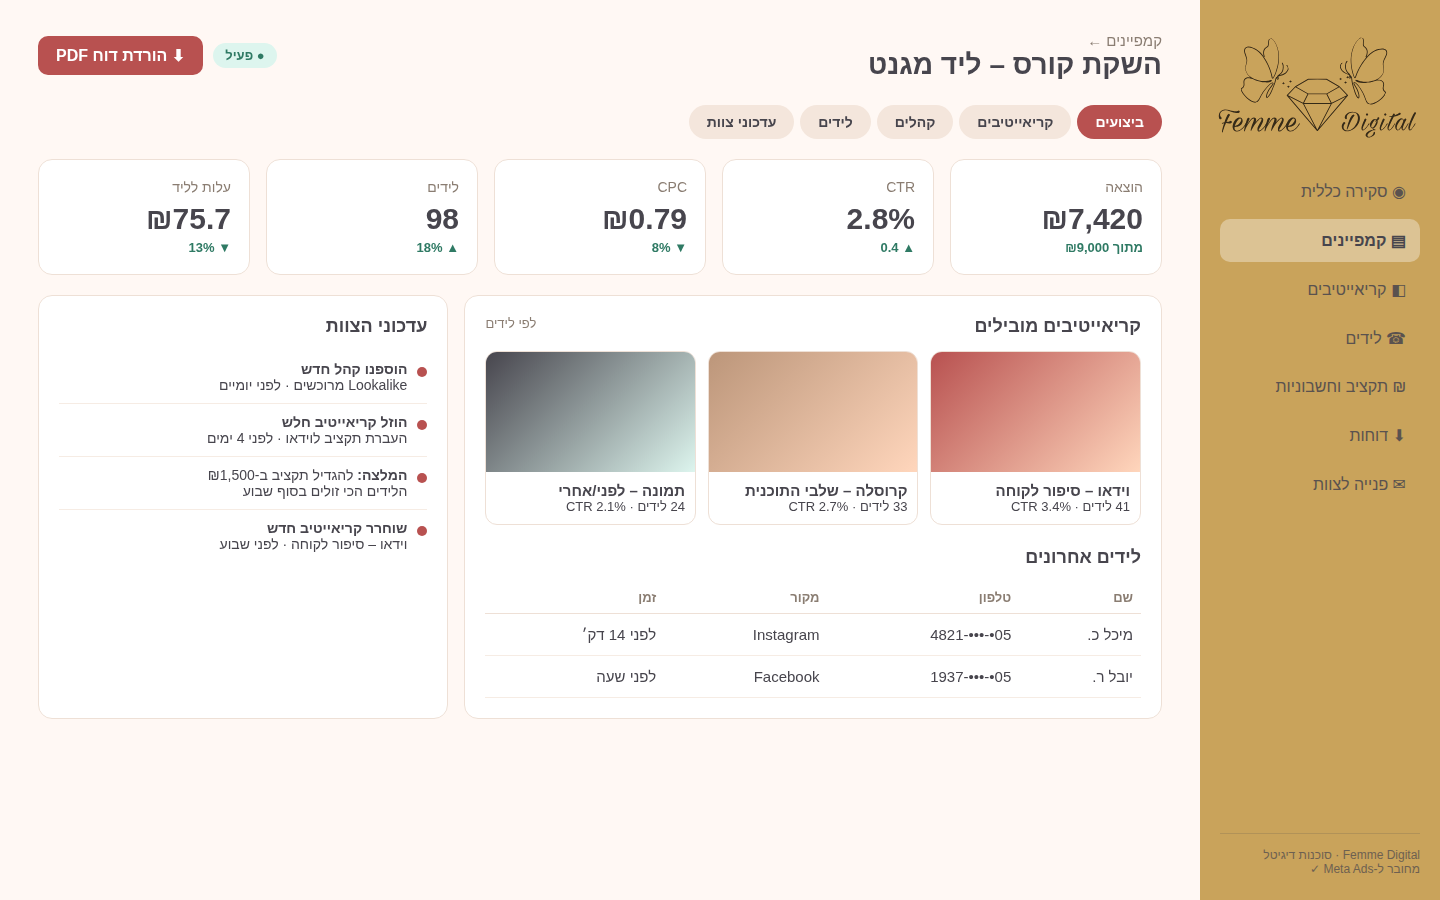
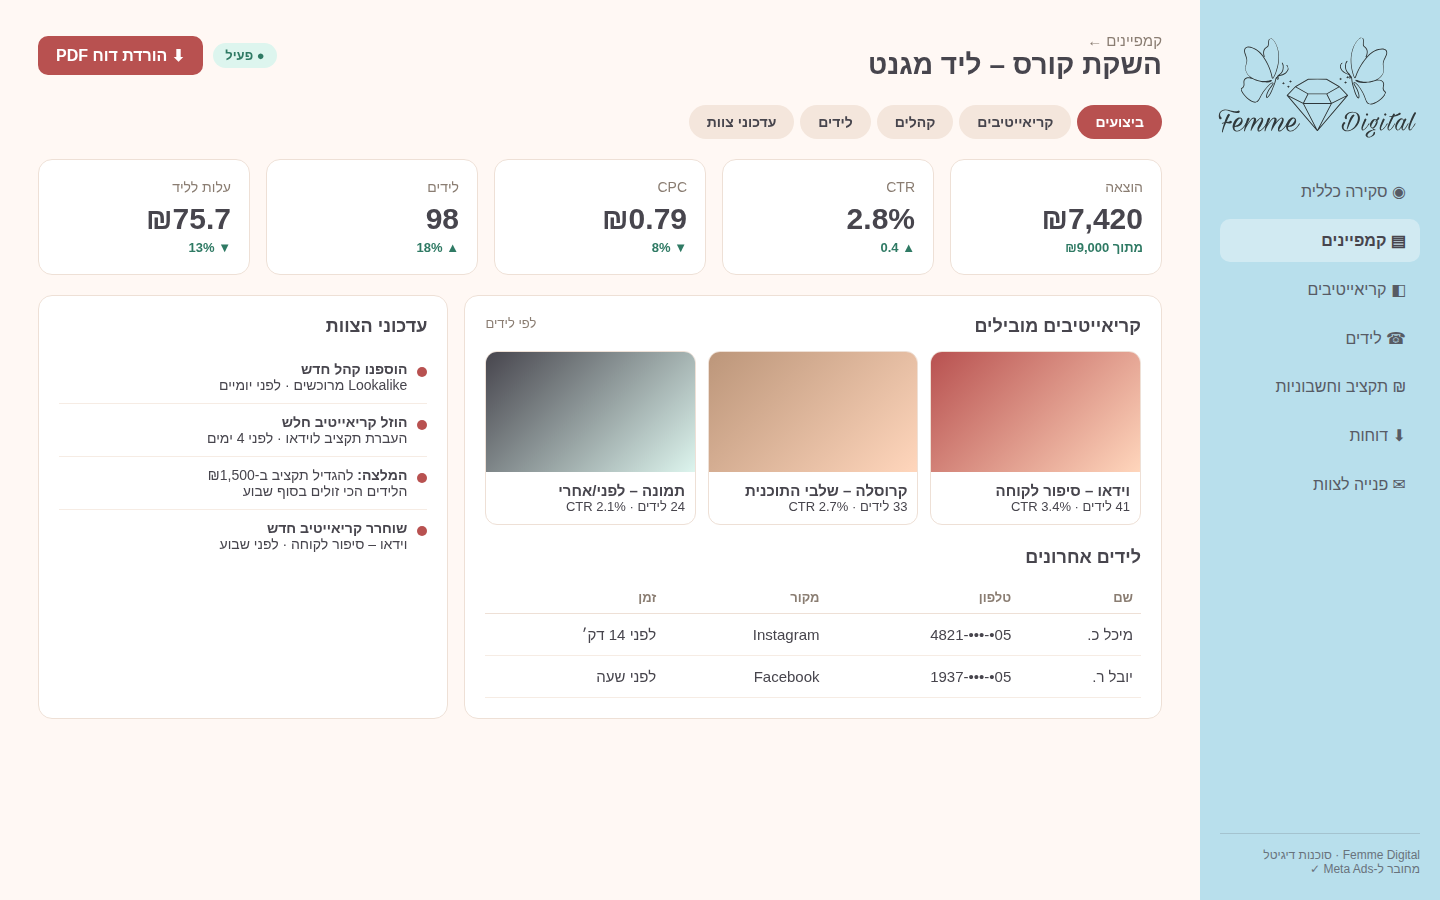
Light blue sidebar in portal mockups
Claude-Session: https://claude.ai/code/session_01SHgaQ2tZapowtJVSgU9cgx

Changed region(s): [[0.8125, 0.0, 1.0, 1.0]]

diff --git a/mockups/portal.html b/mockups/portal.html
@@ -19,7 +19,7 @@
 .box .btn{width:100%;margin-top:26px}.pw{margin-top:22px;text-align:center;color:var(--mut);font-size:13px}
 /* app */
 .app{display:grid;grid-template-columns:240px 1fr;height:100%}
-.side{background:#c9a35b;color:#47454d;padding:28px 20px}.side .logo{margin-bottom:30px}
+.side{background:#b8dfec;color:#47454d;padding:28px 20px}.side .logo{margin-bottom:30px}
 .side a{display:flex;gap:12px;padding:12px 14px;border-radius:10px;margin-bottom:6px;font-size:16px;opacity:.85}.side a.on{background:#ffffff59;opacity:1;font-weight:700}
 .side .pam{position:absolute;bottom:24px;font-size:12px;opacity:.7;width:200px;border-top:1px solid #47454d40;padding-top:14px}
 .main{padding:30px 38px;overflow:hidden}
